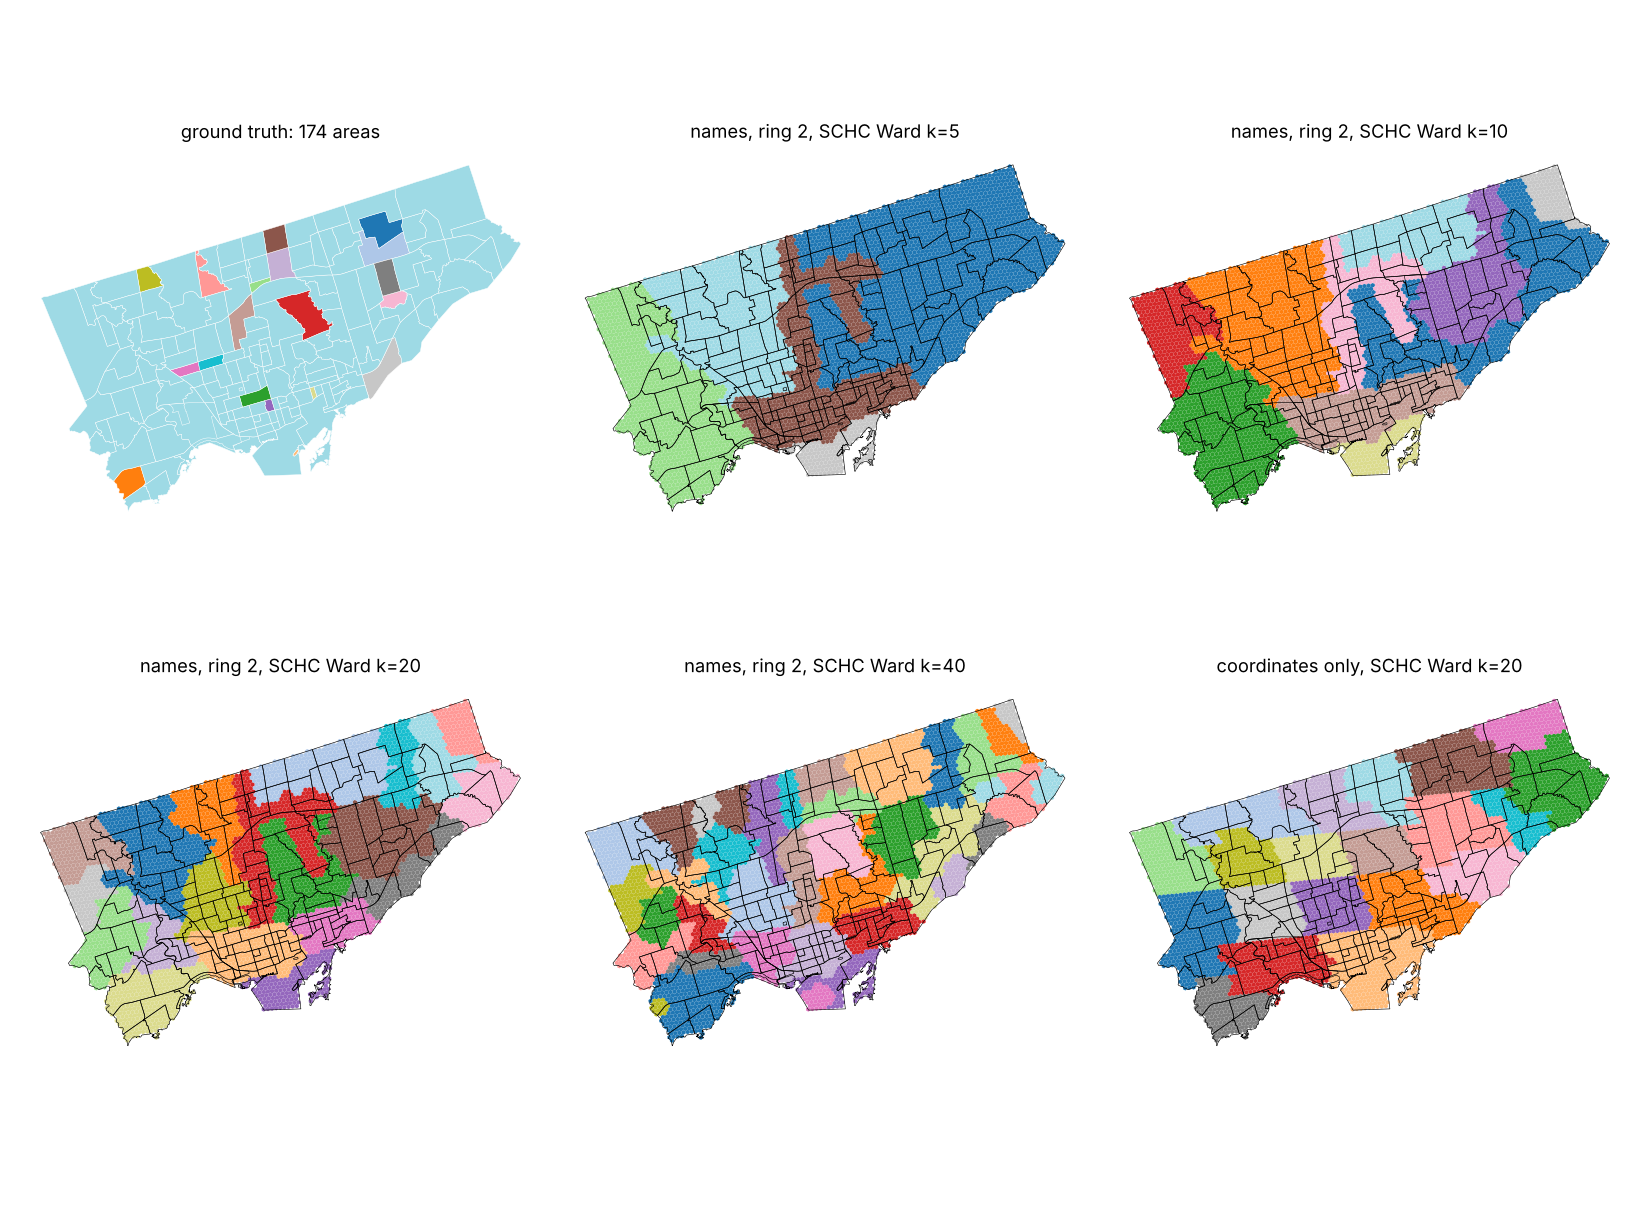
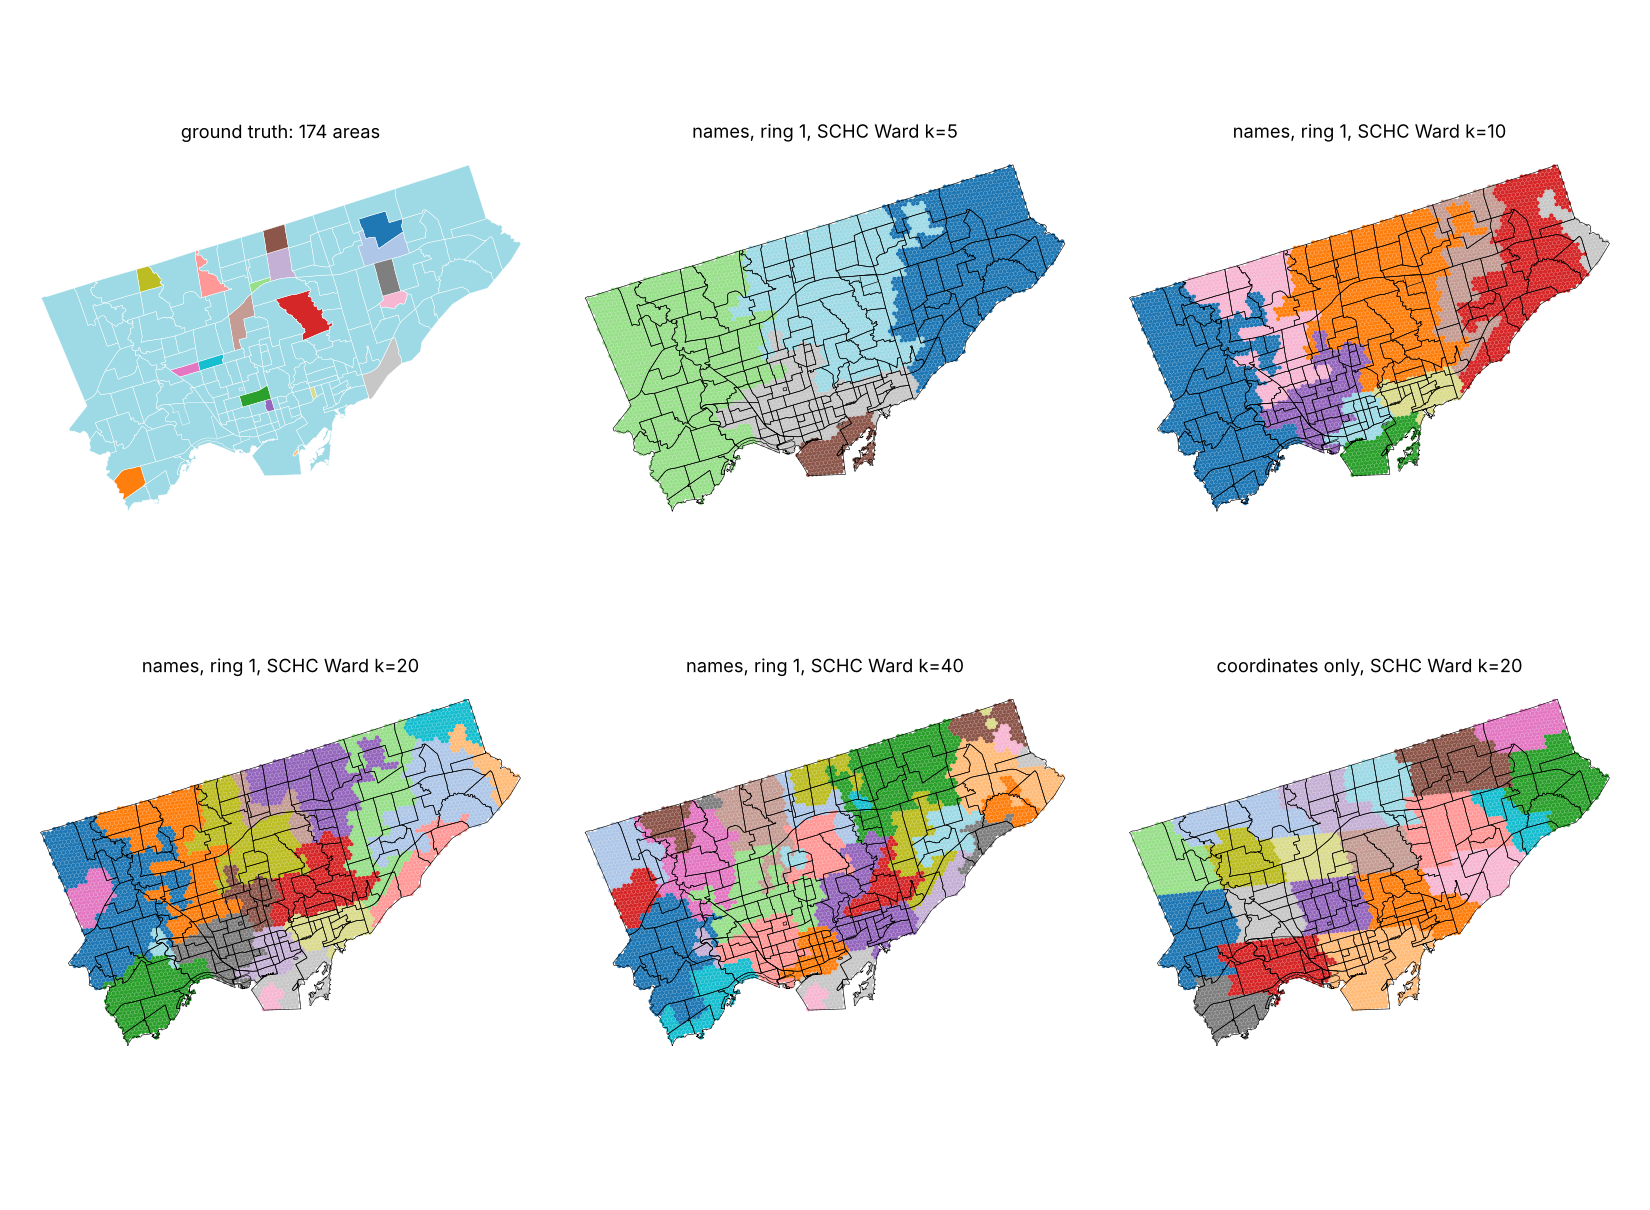
Toronto maps redrawn on ring 1
Claude-Session: https://claude.ai/code/session_01MHdy1RauHgNnG7GD93wZiJ

diff --git a/notes/2026-10-06-toronto-signal-check-r9.md b/notes/2026-10-06-toronto-signal-check-r9.md
@@ -84,27 +84,27 @@ ARI/NMI over all cells (ground truth = polygon containing the cell centroid). `l
 | 2      | 174 | null: names dealt to random cells (mean of 5) |  0.306 | 0.768 |   nan     |
 | 2      | 174 | k-means on names, no contiguity               |  0.271 | 0.748 |   nan     |
 
-## Lifted tokens per region, names ring 2, k=20
+## Lifted tokens per region, names ring 1, k=20
 
-- region 0: oakdale, milvan, ghanaian, norfinch, weston, driftwood
-- region 1: bamburgh, bridletowne, bridlewood, amoreaux, milliken, huntingwood
-- region 2: nai, bais, kosher, northview, baycrest, bales
-- region 3: uoft, harbord, tmu, wework, camh, berkeley
-- region 4: thorncliffe, leaside, laird, cosburn, sunnybrook, flemingdon
-- region 5: rathburn, renforth, burnhamthorpe, westway, markland, martingrove
-- region 6: sina, fairlawn, davisville, won, foremost, lansing
-- region 7: zoo, tundra, beavertails, homemade, exhibit, conservancy
-- region 8: hanlan, yachts, beavertails, docks, ferry, dock
-- region 9: runnymede, lambton, kingsway, scarlett, demetrius, swansea
-- region 10: wexford, roadsport, bendale, cedarbrae, cedarbrook, prudential
-- region 11: westmore, humberwood, humberline, albion, thistletown, bollywood
-- region 12: greektown, balmy, leslieville, kew, ashbridges, beaches
-- region 13: morningside, abbey, highland, crossing, port, rouge
-- region 14: cliffside, bluffs, bluffers, guildwood, birchcliff, cliffcrest
-- region 15: carlingview, servicemaster, accu, canes, terminals, carquest
-- region 16: caledonia, marlee, oakwood, keelesdale, cedarvale, fairbank
-- region 17: alderwood, mimico, queensway, sherway, cloverdale, lakeshore
-- region 18: fabricators, middlefield, rsm, val, salim, siva
-- region 19: utsc, malvern, neilson, morningside, silks, curling
+- region 0: westway, burnhamthorpe, westmore, humberwood, humberline, thistletown
+- region 1: utsc, morningside, malvern, cedarbrae, neilson, bendale
+- region 2: milvan, keelesdale, caledonia, promed, yorkdale, latina
+- region 3: zoo, rouge, port, tundra, mcintyre, pickering
+- region 4: alderwood, mimico, queensway, sherway, cloverdale, stonegate
+- region 5: bindery, fabricators, lettering, instructor, middlefield, agincourt
+- region 6: wynford, flemingdon, concorde, cosburn, thorncliffe, leaside
+- region 7: cliffside, bluffers, bluffs, guildwood, birchcliff, cliffcrest
+- region 8: bridlewood, bamburgh, horne, bridletowne, amoreaux, seneca
+- region 9: tmu, mines, mos, swipe, invest, sherbourne
+- region 10: davisville, chaplin, redpath, sotheby, summerhill, deer
+- region 11: won, sina, centerpoint, yazdani, empress, hullmark
+- region 12: carlingview, servicemaster, accu, carquest, monitoring, ancient
+- region 13: hanlan, carousel, ferry, islands, forestry, beau
+- region 14: roncy, humberside, dovercourt, roncesvalles, parkdale, ossington
+- region 15: yachts, docks, beavertails, pinewood, billy, herc
+- region 16: nai, fairlawn, gan, baycrest, northview, bales
+- region 17: balmy, greektown, ashbridges, leslieville, beaches, kew
+- region 18: giorgio, dirt, homemade, skyway, rosewood, sells
+- region 19: lambton, recreational, kingsway, tilt, reaction, neuro
 
 Maps: `figures/2026-10-06-toronto-signal-check-r9-maps.png`, `figures/2026-10-06-toronto-signal-check-r9-density.png`.
